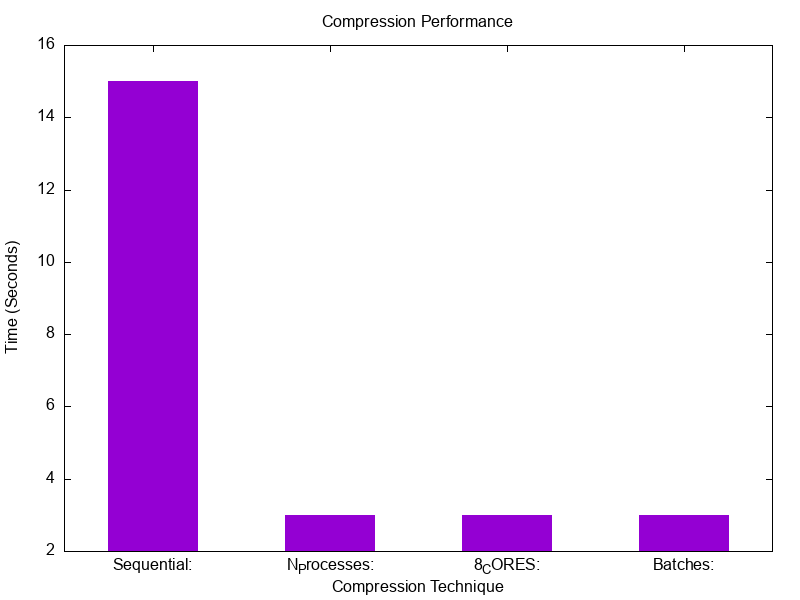
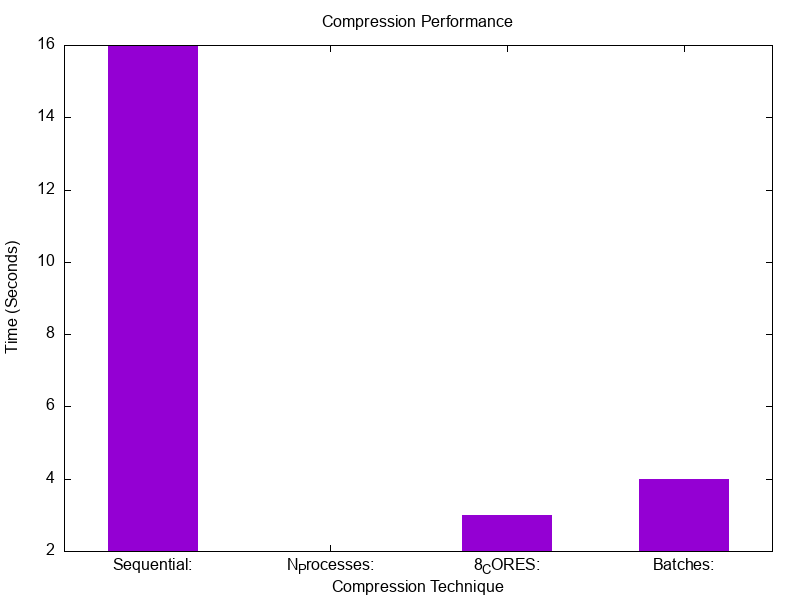
compression results done

Changed region(s): [[0.7812, 0.78, 0.9375, 0.87], [0.3438, 0.84, 0.4688, 0.93], [0.125, 0.06, 0.25, 0.15]]

diff --git a/src/main.c b/src/main.c
@@ -25,19 +25,26 @@ int main(int argc, char **argv) {
     clearPerformanceFile("./results/techniques/performance.txt");
     clearPerformanceFile("./results/cores/performance.txt");
 
-    compressSequentially(argv[1], argv[2]); // 1 minutes 45 seconds 130 files
-    compressionNProcesses(argv[1], argv[2]); // 33 seconds 130 files 
-    compressWithNBCores(argv[1], argv[2]);  // 19 seconds 130 files
-    compressInBatches(argv[1], argv[2], 0); // 19 seconds 130 files
+    // compressSequentially(argv[1], argv[2]); // 1 minutes 45 seconds 130 files
+    // compressionNProcesses(argv[1], argv[2]); // 33 seconds 130 files 
+    // compressWithNBCores(argv[1], argv[2]);  // 19 seconds 130 files
+    // compressInBatches(argv[1], argv[2], 0); // 19 seconds 130 files
 
-    visualizePerformance();
-    visualizePerformanceLineChart();
+    // visualizePerformance();
+    // visualizePerformanceLineChart();
 
 
     // compress and visulize performance for 1, 2, 3, 4, 5, 6, 7, 8 cores
     for (int i = 1; i <= 8; i++) {
         compressInBatches(argv[1], argv[2], i);
     }
+    visualizeCoresPerformance();
+
+
+    printf("\n------------------------------------------------------------------\n");
+    printf("                   All compressions finished.\n");
+    printf("            Results are saved in the results directory.\n");
+    printf("--------------------------------------------------------------------\n");
 
     return 0;
 }

diff --git a/src/utils.c b/src/utils.c
@@ -138,3 +138,17 @@ void visualizePerformanceLineChart() {
         "plot './results/techniques/performance.txt' using 2:xtic(1) with linespoints title 'Time';\""; 
     system(gnuplotCommand);
 }
+
+void visualizeCoresPerformance() {
+    char *gnuplotCommand = "gnuplot -e \""
+        "set terminal png size 800,600; "
+        "set output './results/cores/compression_performance.png'; "
+        "set title 'Compression Performance'; "
+        "set xlabel 'Number of Cores'; "
+        "set ylabel 'Time (Seconds)'; "
+        "set boxwidth 0.5; " 
+        "set style fill solid; "
+        "plot './results/cores/performance.txt' using 2:xtic(1) with linespoints title 'Time';\""; 
+
+    system(gnuplotCommand);
+}

diff --git a/src/parallel_batches.c b/src/parallel_batches.c
@@ -64,12 +64,11 @@ void compressMultipleFiles(char **filesList, int startIdx, int endIdx, const cha
 
 
 char* concat(int NB_CORES) {
-    char cores_str[] = " cores";
     // Calculate needed size (+1 for null terminator)
-    int size = snprintf(NULL, 0, "%d%s", NB_CORES, cores_str) + 1;
+    int size = snprintf(NULL, 0, "%d", NB_CORES) + 1;
     char *result = malloc(size); // Allocate memory
     if (result != NULL) { // Check allocation success
-        snprintf(result, size, "%d%s", NB_CORES, cores_str);
+        snprintf(result, size, "%d", NB_CORES);
     }
     return result;
 }

diff --git a/include/headers.h b/include/headers.h
@@ -26,5 +26,6 @@ void writePerformance(char *techniqueName, double totalTime, char *file_path);
 void clearPerformanceFile(char *file_path);
 void visualizePerformance();
 void visualizePerformanceLineChart();
+void visualizeCoresPerformance();
 
 #endif 
